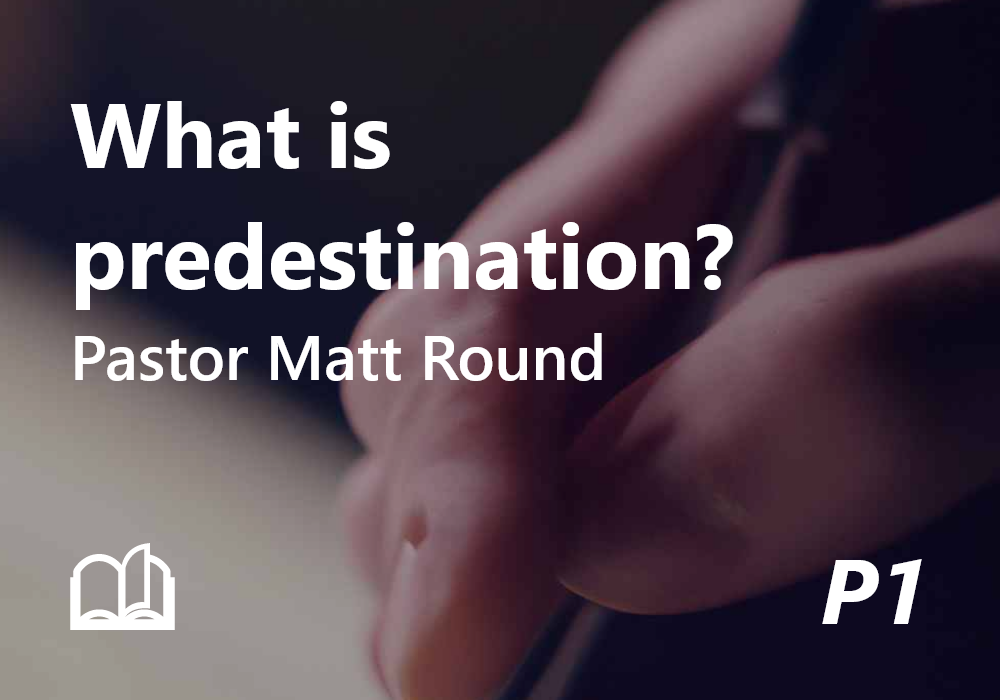
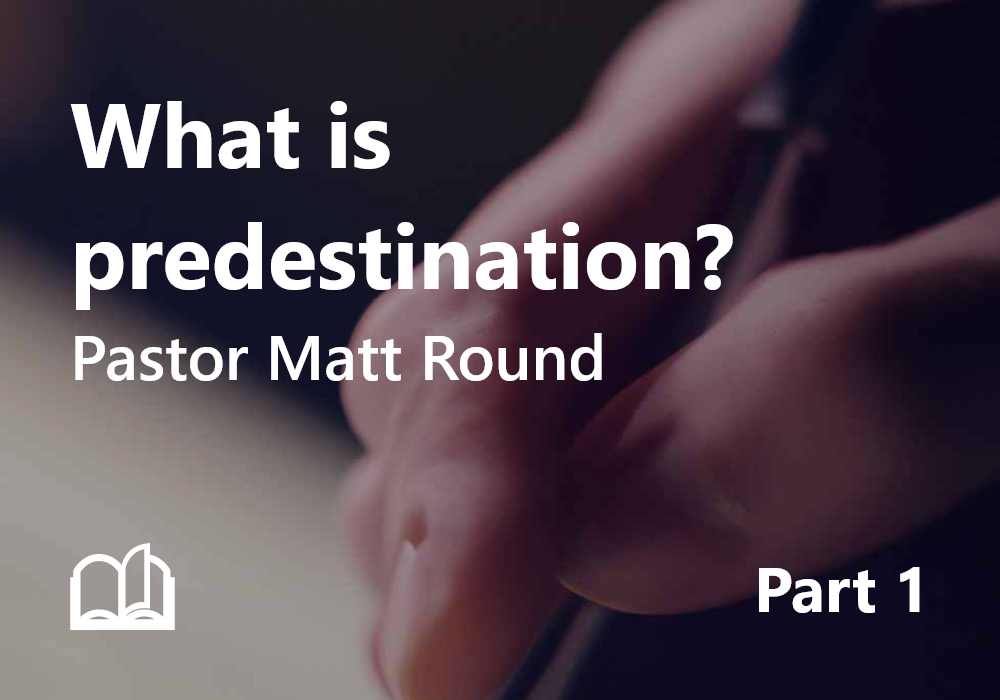
v2.5.4-9
* Updated Episode 21 Opengraph Image
+ Added Episode 22 Opengraph and Page Data

Changed region(s): [[0.744, 0.78, 0.93, 0.9]]

diff --git a/episodes/gods-plan/what-is-predestination-p2.html b/episodes/gods-plan/what-is-predestination-p2.html
@@ -1,0 +1,168 @@
+<!DOCTYPE html>
+<html lang="en">
+<head>
+    <!-- 
+        Replace these things with the information below!
+        Grounded - Episode 22 - What is predestination? - Part 2 >>> The title of the page (e.g. Grounded - Episode 1 - Introduction (Part 1))
+        Today we will continue to discuss last week's topic and go deeper into the biblical references and passages regarding predestination, foreknowledge, and election. >>> Description (e.g. Welcome to the grounded podcast today we will be interviewing pastor matt for the first time.)
+        /assets/opengraph/episodes/gods-plan/what-is-predestination-p2.png >>> The reference to the opengraph image locally. (e.g. /assets/images/episodes/opengraph.png)
+        https://groundedwithmatt.com/episodes/gods-plan/what-is-predestination-p2.html >>> Location of the exact page.. THIS PAGE. Not local. (e.g. https://groundedwithmatt.com/episodes/interview/introduction.html)
+        https://d3ctxlq1ktw2nl.cloudfront.net/staging/2023-2-23/319898868-22050-1-b05fa364c6c57.m4a >>> Audio Link URL
+        March 24th, 2023 >>> The Date, in Words.. (e.g. September 11th, 2001)
+        Episode 22 >>> The Episode ID (e.g. Episode 1 - Part 2)
+        What is Predestination - Part 2 >>> Title of the Episode (How Big is Big Bob?)
+        https://youtu.be/i2tRpWwtrWU >>> Youtube Link
+        2023-03-24 >>> Published Date, in a YYYY-MM-DD format.
+        2023-03-24 >>> Modified Date, in a YYYY-MM-DD format.
+    -->
+
+    <!-- Developer Definitions -->
+    <meta charset="UTF-8">
+    <meta http-equiv="X-UA-Compatible" content="IE=edge">
+    <meta name="viewport" content="width=device-width, initial-scale=1.0">
+    <link type="text/css" rel="stylesheet" href="/assets/style.css">
+    <!-- Search Engine Optimization -->
+    <title>Grounded - Episode 22 - What is predestination? - Part 2</title>
+    <meta name="description" content="Today we will continue to discuss last week's topic and go deeper into the biblical references and passages regarding predestination, foreknowledge, and election.">
+    <link rel="home" href="https://groundedwithmatt.com/">
+    <link rel="canonical" href="https://groundedwithmatt.com/episodes/gods-plan/what-is-predestination-p2.html">
+    <meta name="robots" content="index, follow" />
+    <script type='application/ld+json'>
+        {
+            "@context": "http://schema.org/",
+            "@type": "Article",
+            "headline": "Grounded - Episode 22 - What is predestination? - Part 2",
+            "mainEntityOfPage": {
+                "@type": "WebPage",
+                "@id": "https://groundedwithmatt.com/episodes/gods-plan/what-is-predestination-p2.html"
+            },
+            "image": {
+                "@type": "ImageObject",
+                "url": "https://groundedwithmatt.com/assets/opengraph/episodes/gods-plan/what-is-predestination-p2.png",
+                "height": 700,
+                "width": 1000
+            },
+            "publisher": {
+                "@type": "Organization",
+                "name": "Grounded",
+                "logo": {
+                    "@type": "ImageObject",
+                    "url": "https://groundedwithmatt.com/assets/images/favicons/favicon-32x32.png",
+                    "height": 32,
+                    "width": 32
+                }
+            },
+            "datePublished": "2023-03-24",
+            "dateModified": "2023-03-24",
+            "author": {
+                "@type": "Person",
+                "name": "Noah Greer & Pastor Matt Round"
+            },
+            "description": "Today we will continue to discuss last week's topic and go deeper into the biblical references and passages regarding predestination, foreknowledge, and election."
+        }
+    </script>
+    <!-- Icons -->
+    <link rel="apple-touch-icon" sizes="180x180" href="/assets/images/favicons/apple-touch-icon.png?v=2.1">
+    <link rel="icon" type="image/png" sizes="32x32" href="/assets/images/favicons/favicon-32x32.png?v=2.1">
+    <link rel="icon" type="image/png" sizes="194x194" href="/assets/images/favicons/favicon-194x194.png?v=2.1">
+    <link rel="icon" type="image/png" sizes="192x192" href="/assets/images/favicons/android-chrome-192x192.png?v=2.1">
+    <link rel="icon" type="image/png" sizes="16x16" href="/assets/images/favicons/favicon-16x16.png?v=2.1">
+    <link rel="manifest" href="/assets/images/favicons/site.webmanifest?v=2.1">
+    <link rel="mask-icon" href="/assets/images/favicons/safari-pinned-tab.svg?v=2.1" color="#DE3F28">
+    <link rel="shortcut icon" href="/assets/images/favicons/favicon.ico?v=2.1">
+    <meta name="apple-mobile-web-app-title" content="Grounded">
+    <meta name="application-name" content="Grounded">
+    <meta name="msapplication-TileColor" content="#b91d47">
+    <meta name="msapplication-TileImage" content="/assets/images/favicons/mstile-144x144.png?v=2.1">
+    <meta name="msapplication-config" content="/assets/images/favicons/browserconfig.xml?v=2.1">
+    <meta name="theme-color" content="#ffffff">
+    <!-- Open Graph -->
+    <meta property="og:url" content="https://groundedwithmatt.com/episodes/gods-plan/what-is-predestination-p2.html">
+    <meta property="og:type" content="website">
+    <meta property="og:title" content="Grounded - Episode 22 - What is predestination? - Part 2">
+    <meta property="og:image" content="/assets/opengraph/episodes/gods-plan/what-is-predestination-p2.png">
+    <meta property="og:image:width" content="1000">
+    <meta property="og:image:height" content="700">
+    <meta property="og:description" content="Today we will continue to discuss last week's topic and go deeper into the biblical references and passages regarding predestination, foreknowledge, and election.">
+    <meta property="og:site_name" content="Grounded">
+    <meta property="og:locale" content="en_US">
+    <meta property="og:locale:alternate" content="en_US">
+    <meta property="og:locale:alternate" content="es_US">
+    <!-- Twitter Open Graph-->
+    <meta name="twitter:card" content="summary_large_image">
+    <meta name="twitter:site" content="@GroundedMatt">
+    <meta name="twitter:url" content="https://groundedwithmatt.com/episodes/gods-plan/what-is-predestination-p2.html">
+    <meta name="twitter:title" content="Grounded - Episode 22 - What is predestination? - Part 2">
+    <meta name="twitter:description" content="Today we will continue to discuss last week's topic and go deeper into the biblical references and passages regarding predestination, foreknowledge, and election.">
+    <meta name="twitter:image" content="/assets/opengraph/episodes/gods-plan/what-is-predestination-p2.png">
+</head>
+    
+<body>
+    <nav>
+    </nav>
+    <div class="audioplayer">
+        <audio class="audio" src="https://d3ctxlq1ktw2nl.cloudfront.net/staging/2023-2-23/319898868-22050-1-b05fa364c6c57.m4a"></audio>
+        <a class="play">
+            <img src="/assets/images/icons/Play2.svg" alt="Play/Pause">
+        </a>
+        <div class="mid">
+            <div class="midinfo">
+                <div class="txt">
+                    <h2>What is Predestination - Part 2</h2>
+                    <p>• Episode 22</p>
+                </div>
+            </div>
+            <div class="scrub">
+                <div class="scrub-progress"></div>
+            </div>
+        </div>
+        <p class="timestamp">--:--/--:--</p>
+    </div>
+    <header>
+        <div class="left">
+            <div class="speakers">
+                <img src="/assets/images/icons/people/noah.png" alt="Noah J. Greer">
+                <img src="/assets/images/icons/people/pmatt.png" alt="Pastor Matt Round">
+            </div>
+            <div class="details">
+                <div class="names">
+                    <p>Noah Greer & Pastor Matt Round</p>
+                </div>
+                <div class="info">
+                    <p id="date">March 24th, 2023</p>
+                    <p id="episode">Episode 22</p>
+                </div>
+            </div>
+        </div>
+        <div class="right">
+            <div class="listen">
+                <!-- <a class="button" onclick="playSong()">Listen</a> -->
+            </div>
+            <div class="locations">
+                <a href="https://youtu.be/i2tRpWwtrWU" target="_blank">
+                    <img src="/assets/images/icons/youtube.svg" alt="Listen to this Episode on Youtube" class="social">
+                </a>
+                <a href="https://open.spotify.com/show/2AGB5qVXBus9Jwv0cMc3vZ?si=e86d946712b54d03" target="_blank">
+                    <img src="/assets/images/icons/spotify.svg" alt="Listen to this Episode on Spotify" class="social">
+                </a>
+                <a href="https://podcasts.apple.com/us/podcast/grounded/id1647718821" target="_blank">
+                    <img src="/assets/images/icons/apple.svg" alt="Listen to this Episode on Apple Podcasts" class="social">
+                </a>
+            </div>
+        </div>
+    </header>
+    <article>
+        <h1>What is Predestination - Part 2</h1>
+        <h2>Transcription in Progress:</h2>
+        <p>We're in the process of making a transcript for this page. In the meantime, you can listen to it audibly by clicking or tapping the big play button in the bottom left corner of your screen. We appreciate your patience!</p>
+        <!-- <a class="button" onclick="playSong()">Listen</a> -->
+    </article>
+    <section>
+
+    </section>
+    <footer>
+    </footer>
+</body>
+<script src="/assets/js/nav-footer-fetch.js"></script>
+<script src="/assets/js/player.js"></script>
+</html>

diff --git a/assets/episode-template.scss b/assets/episode-template.scss
@@ -67,7 +67,7 @@ h2 {
 .background-img {
     position: absolute;
     width: 100%;
-    transform: scale(1.05) translateY(0.0%) translateX(0%);
+    transform: scale(1.05) translateY(-25%) translateX(0%);
     filter: brightness(0.75) saturate(1);
     z-index: -99;
 }
@@ -91,11 +91,12 @@ h2 {
     align-items: center;
     justify-content: space-between;
     h1 {
-        font-style: italic;
+        // font-style: italic;
         line-height: 0px;
     }
     h2 {
-        font-style: italic;
+        // font-style: italic;
+        font-weight: 700;
         line-height: 0px;
     }
     .logo {

diff --git a/episodes/template.html b/episodes/template.html
@@ -7,7 +7,7 @@
     <link rel="stylesheet" href="/assets/episode-template.css">
 </head>
 <body>
-    <img src="/assets/images/episodes/Writing0.jpg" alt="" class="background-img">
+    <img src="/assets/images/episodes/Writing1.jpg" alt="" class="background-img">
     <div class="elements">
         <div class="text">
             <h1>What is predestination?</h1>
@@ -15,7 +15,7 @@
         </div>
         <div class="bottom">
             <img src="/assets/images/SmallLogo-v1.svg" alt="" class="logo">
-            <h1>P1</h1>
+            <h2>Part 2</h2>
         </div>
     </div>
 </body>

diff --git a/assets/episode-template.css b/assets/episode-template.css
@@ -32,7 +32,7 @@ h2 {
 .background-img {
   position: absolute;
   width: 100%;
-  transform: scale(1.05) translateY(0%) translateX(0%);
+  transform: scale(1.05) translateY(-25%) translateX(0%);
   filter: brightness(0.75) saturate(1);
   z-index: -99;
 }
@@ -57,11 +57,10 @@ h2 {
   justify-content: space-between;
 }
 .bottom h1 {
-  font-style: italic;
   line-height: 0px;
 }
 .bottom h2 {
-  font-style: italic;
+  font-weight: 700;
   line-height: 0px;
 }
 .bottom .logo {
